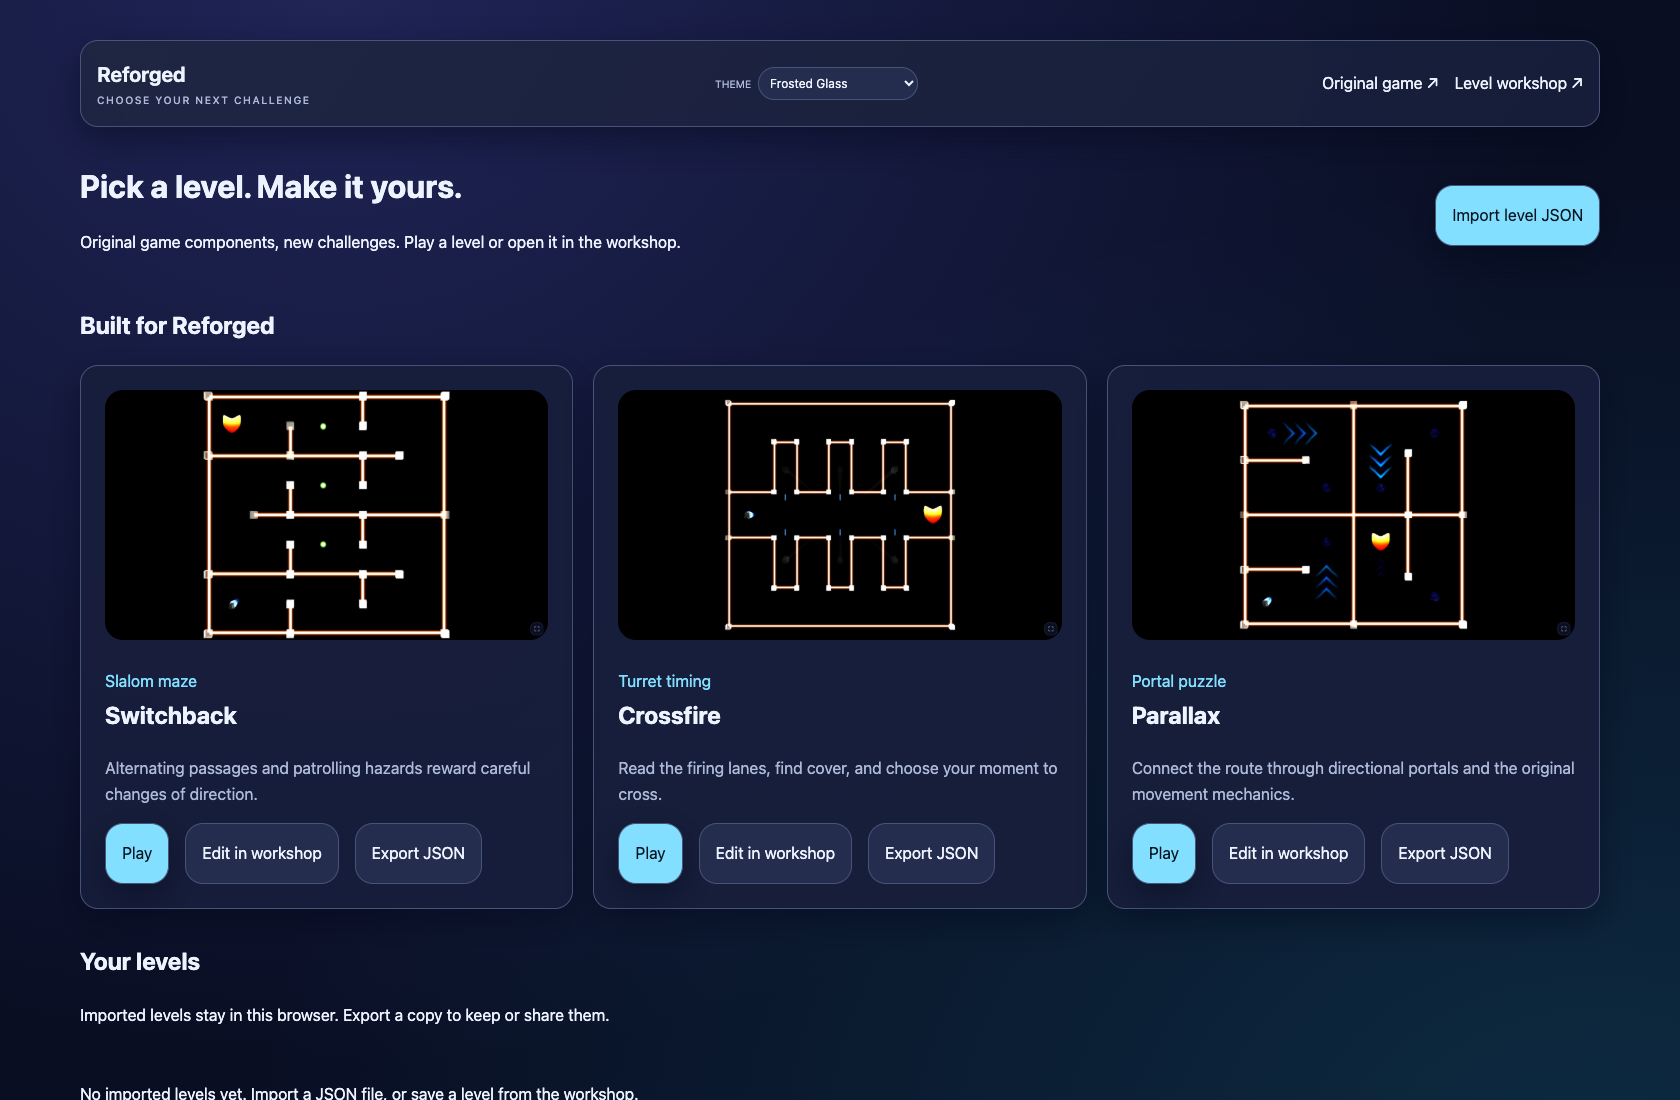
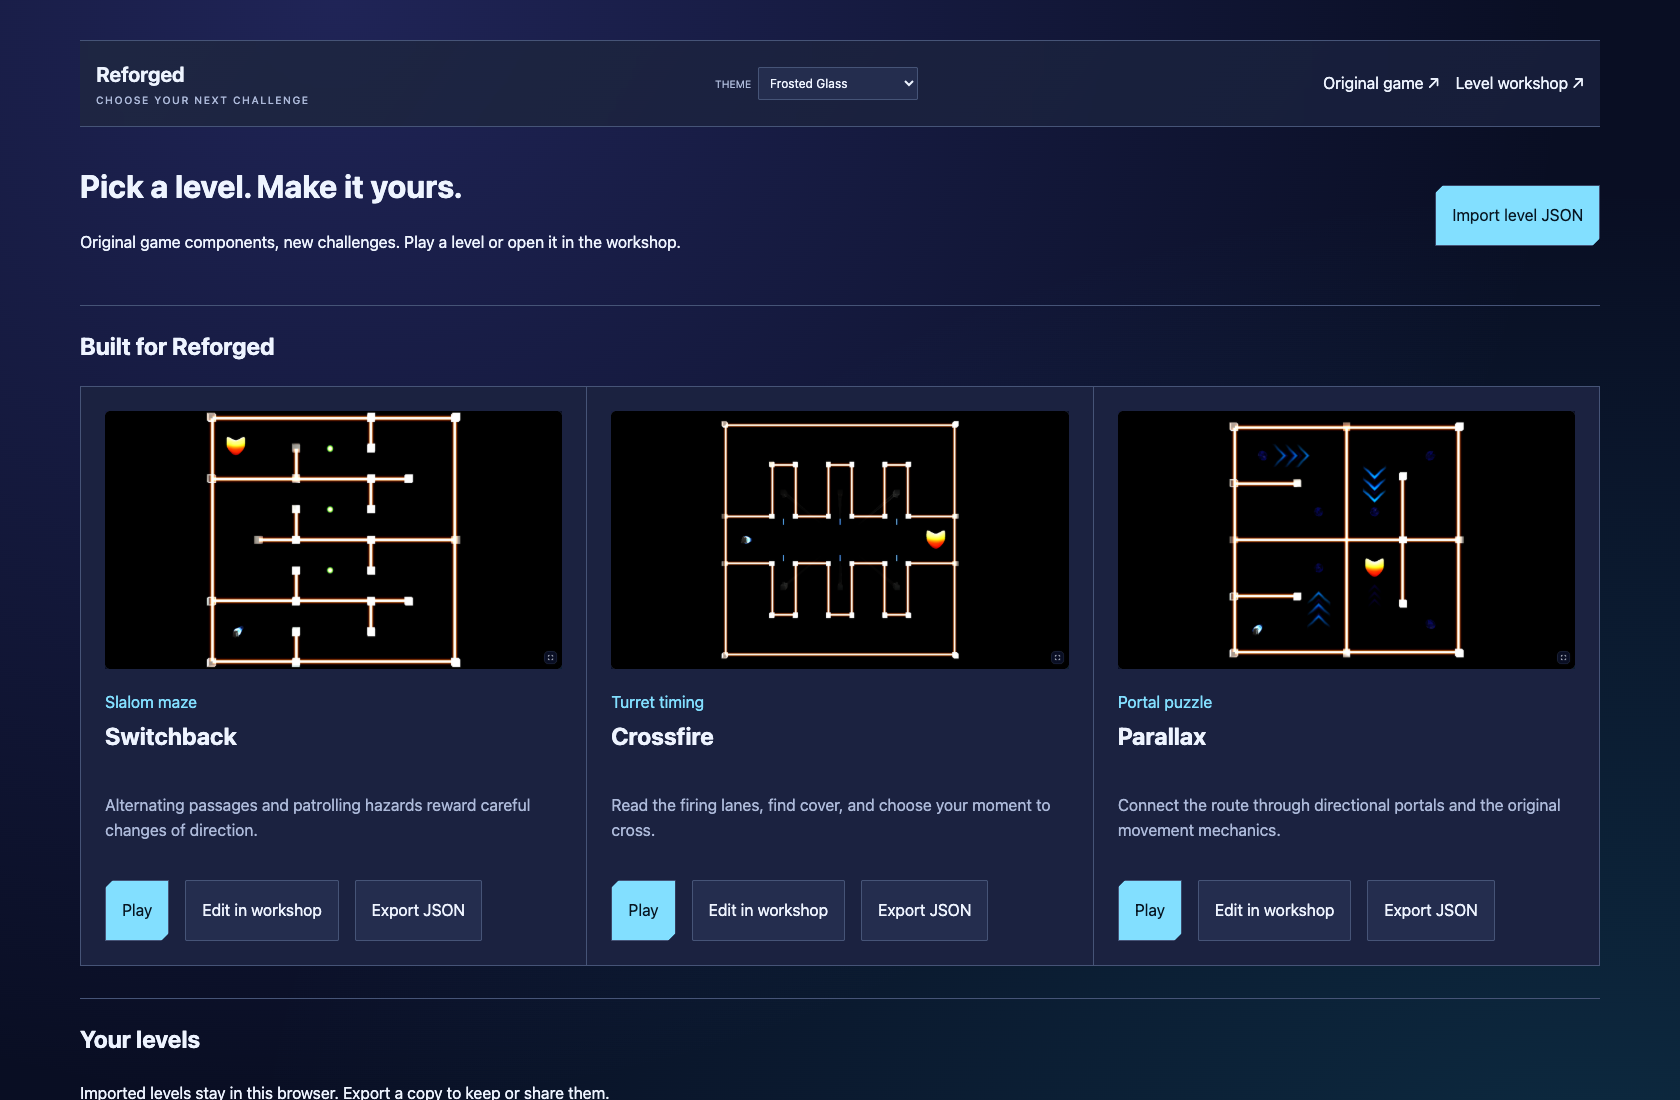
[C] Record live Reforged release verification

diff --git a/.claude_todo.md b/.claude_todo.md
@@ -23,7 +23,7 @@
 - [x] Inspect later-level components and choose faithful custom-level runtime architecture.
 - [x] Build Reforged grid editor with editable components, JSON export/import and local saves.
 - [x] Author a challenging level and verify an actual winning route.
-- [ ] Add original/Reforged website navigation, visual/play/save/load checks, publish and notify with screenshot/URL.
+- [x] Add original/Reforged website navigation, visual/play/save/load checks, publish and notify with screenshot/URL.
 - [x] Measure every original level's grid spacing/topology/modifiers and verify against VLM captures.
 - [x] Audit Lv7–10/Lv1A/Lv2A authoring components and connections; demonstrate ≥95% reconstruction coverage without inflating repeated-instance counts.
 - [x] Measure original grid lattices/scales and trace late-level mesh faces, hierarchy and cross-object logic; record evidence and coverage gates in research/reforged/README.md.
@@ -34,7 +34,7 @@
 - [x] Add a level browser for bundled challenges and user-imported JSON levels, with play/edit actions.
 
 - [x] Reduce rounded corners across themes and use restrained chamfers on primary controls/cards.
-- [ ] Package candidate runtime/source, original regression, publish, verify live URLs and send final NWD.
+- [x] Package candidate runtime/source, original regression, publish, verify live URLs and send final NWD.
 - [x] Create isolated private preview worktree/server, verify, open browser and notify preview URL.
 - [x] Refine editor/catalog into contiguous professional panels with edge-to-edge separators.
 - [x] Replace abstract component glyphs with verified original-asset thumbnails where useful.

diff --git a/concerns.md b/concerns.md
@@ -78,3 +78,6 @@ Original regression against the isolated release snapshot passed menu progressio
 ### Final authoring UI validation
 Original mesh/UV/vertex-color thumbnails replace glyphs for visible components; LvGen B shows fifteen pictures and five fallbacks for invisible markers. VLM reviewed the component sheet, contiguous panels, Paper theme, and perspective map. Original packed MCol channel order is verified from KX_Mcol2uint_new; exporter writes per-corner RGBA, and preview averages paint per face. Lighting, reflection mapping and animations remain simplified in the editor canvas; Playtest uses the original renderer.
 All fifteen themes passed synchronization, persistence, no-horizontal-overflow and browser-exception checks after UI integration. Perspective remains default off, and real picking/dragging plus grid-origin snapping pass. Final static package validates at 472.2 MiB with original .blend hash unchanged. Publication and live verification follow this source checkpoint.
+
+### Public release verified
+GitHub Pages workflow 37261346986 successfully deployed bd6b7cf. Public-browser checks passed all three named levels at 1920×1080, decoded catalog previews and Parallax's Edit in workshop handoff, with zero page exceptions. VLM reviewed the live catalog and editor screenshots. This final documentation/evidence commit does not change site content. The private preview was advanced to the same release and remains running as requested. JSON levels saved/imported in the catalog stay local to that browser; sharing uses exported JSON, not a server database. Completion notification includes both public editor and level URLs.

diff --git a/claude_instructions.md b/claude_instructions.md
@@ -234,3 +234,6 @@ Delegated contiguous panel styling and original-asset palette previews to editor
 
 ### Final editor color integration and delivery
 Use exported original per-corner vertex paint in both palette thumbnails and map faces. Canvas authoring previews average colors per face and multiply source textures over that paint; they do not reproduce native lighting. The original-engine playtest remains authoritative. Final checks cover all fifteen themes, default-off perspective and selection, original gameplay/audio, published level catalog and editor, before the requested completion notification.
+
+### Published Reforged release
+The original engine, level catalog and workshop are published under https://ryanndagreat.github.io/ClarasHardestGame/ . Catalog: levels/ ; editor: reforged/ . Bundled challenges are Switchback, Crossfire and Parallax, each with a genuine keyboard-only finish recorded. Live catalog validation boots all three through the deployed WASM at 1920×1080 and opens Parallax in the editor with no browser exceptions. `validation/reforged/live-catalog-results.json` and the release screenshots record this check. The private preview remains intentionally available at port 8877 in the requested isolated worktree; no pending builds or agent jobs remain.
